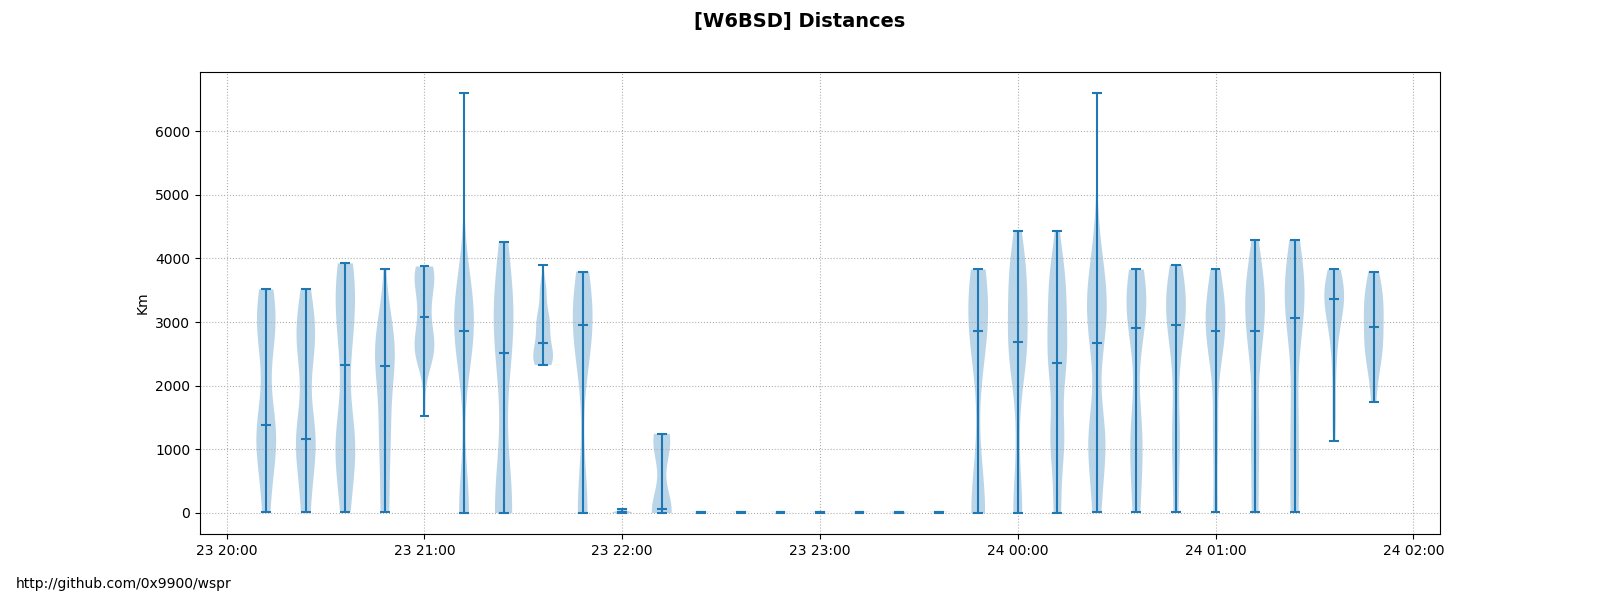
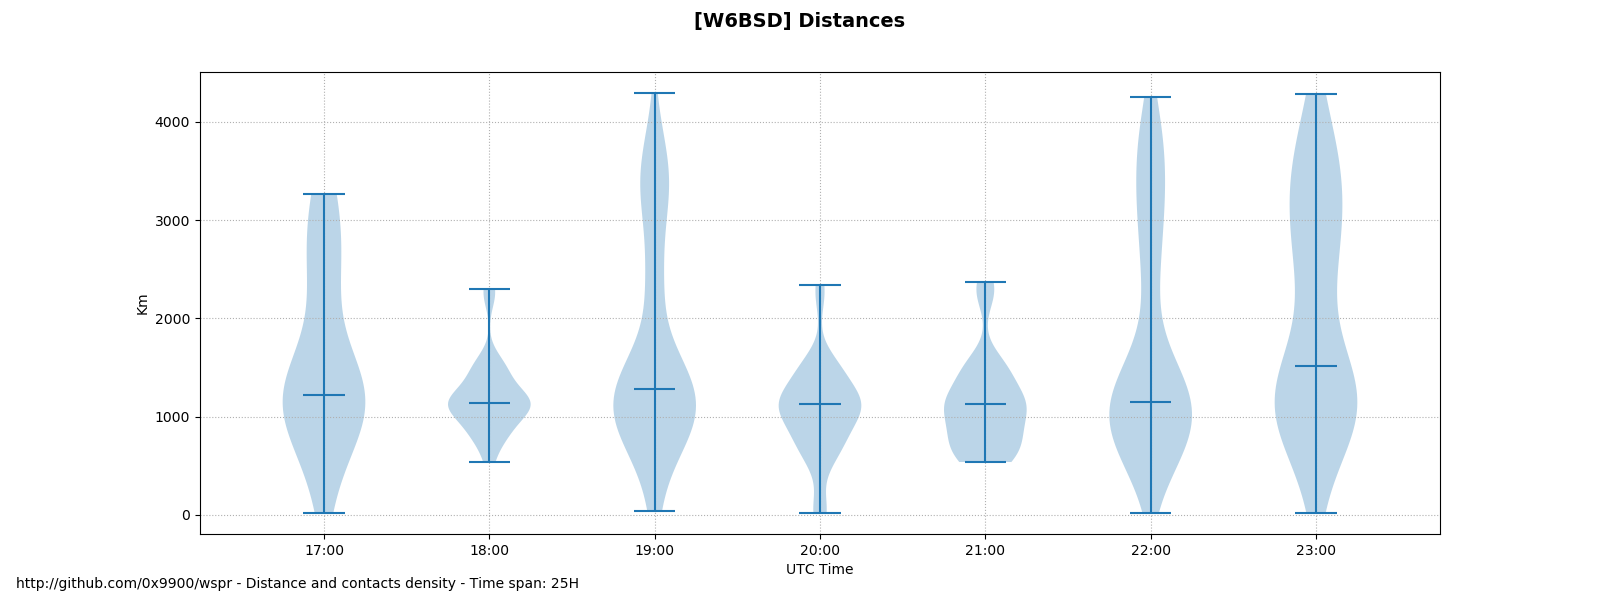
Smoothing line for dist_plot new graphs for the readme

diff --git a/leaf.py b/leaf.py
@@ -25,6 +25,8 @@ import matplotlib.pyplot as plt
 import numpy as np
 import requests
 
+from scipy.interpolate import make_interp_spline, BSpline
+
 try:
   from mpl_toolkits.basemap import Basemap
 except ImportError:
@@ -175,7 +177,8 @@ def azimuth(wspr_data):
       elements.append((azim, dist))
 
   fig = plt.figure()
-  fig.text(.01, .02, 'http://github.com/0x9900/wspr - Time span: %s' % Config.timelimit)
+  fig.text(.01, .02, ('http://github.com/0x9900/wspr - Distance and direction - '
+                      'Time span: %s') % Config.timelimit)
   fig.suptitle('[{}] Azimuth x Distance'.format(Config.callsign), fontsize=14, fontweight='bold')
 
   ax_ = fig.add_subplot(111, polar=True)
@@ -193,17 +196,9 @@ def dist_plot(wspr_data):
   filename = os.path.join(Config.target, 'distplot.png')
   logging.info('Drawing distplot to %s', filename)
 
-  collection = collections.defaultdict(list)
-  for val in wspr_data:
-    key = 60 * (val.timestamp / 60)
-    collection[key].append(float(val.distance))
-
-  data = []
-  for key, values in sorted(collection.items()):
-    data.append((datetime.utcfromtimestamp(key), max(values)))
-
   fig, ax_ = plt.subplots(figsize=Config.fig_size)
-  fig.text(.01, .02, 'http://github.com/0x9900/wspr - Time span: %s' % Config.timelimit)
+  fig.text(.01, .02, ('http://github.com/0x9900/wspr - Distance 90th percentile - '
+                      'Time span: %s') % Config.timelimit)
   fig.suptitle('[{}] Distances'.format(Config.callsign), fontsize=14, fontweight='bold')
   fig.autofmt_xdate()
 
@@ -211,7 +206,21 @@ def dist_plot(wspr_data):
   ax_.grid(True, linestyle='dotted')
   ax_.set_xlabel('UTC Time')
   ax_.set_ylabel('Km')
-  ax_.plot(*zip(*data))
+
+  collection = collections.defaultdict(list)
+  for data in wspr_data:
+    collection[900 * (data.timestamp / 900)].append(data.distance)
+  collection = {k: np.percentile(v, 90) for k, v in collection.items()}
+
+  xval, yval = zip(*[(k, v) for k, v in sorted(collection.items())])
+  xval = np.array(xval)
+  yval = np.array(yval)
+
+  xnew = np.linspace(xval.min(), xval.max(), len(xval) * 10)
+  spline = make_interp_spline(xval, yval, k=3)
+  smooth = spline(xnew)
+
+  plt.plot([datetime.utcfromtimestamp(x) for x in xnew], smooth)
 
   plt.savefig(filename)
   plt.close()
@@ -234,7 +243,8 @@ def box_plot(wspr_data):
     data.append((datetime.utcfromtimestamp(key), values))
 
   fig, ax_ = plt.subplots(figsize=Config.fig_size)
-  fig.text(.01, .02, 'http://github.com/0x9900/wspr - Time span: %s' % Config.timelimit)
+  fig.text(.01, .02, ('http://github.com/0x9900/wspr - Distance quartile range - '
+                      'Time span: %s') % Config.timelimit)
   fig.suptitle('[{}] Distances'.format(Config.callsign), fontsize=14, fontweight='bold')
   fig.autofmt_xdate()
 
@@ -274,7 +284,8 @@ def violin_plot(wspr_data):
   labels = ['{}'.format(h.strftime('%R')) for h in labels]
 
   fig, ax_ = plt.subplots(figsize=Config.fig_size)
-  fig.text(.01, .02, 'http://github.com/0x9900/wspr - Time span: %s' % Config.timelimit)
+  fig.text(.01, .02, ('http://github.com/0x9900/wspr - Distance and contacts density - '
+                      'Time span: %s') % Config.timelimit)
   fig.suptitle('[{}] Distances'.format(Config.callsign), fontsize=14, fontweight='bold')
 
   ax_.xaxis.set_ticks_position('bottom')
@@ -299,7 +310,8 @@ def contact_map(wspr_data):
   logging.info('Drawing connection map to %s', filename)
 
   fig = plt.figure(figsize=(15, 10))
-  fig.text(.01, .02, 'http://github/com/0x9900/wspr - Time span: %s' % Config.timelimit)
+  fig.text(.01, .02, ('http://github/com/0x9900/wspr - Contacts map - '
+                      'Time span: %s') % Config.timelimit)
   fig.suptitle('[{}] Contact Map'.format(Config.callsign), fontsize=14, fontweight='bold')
 
   __calls = []
